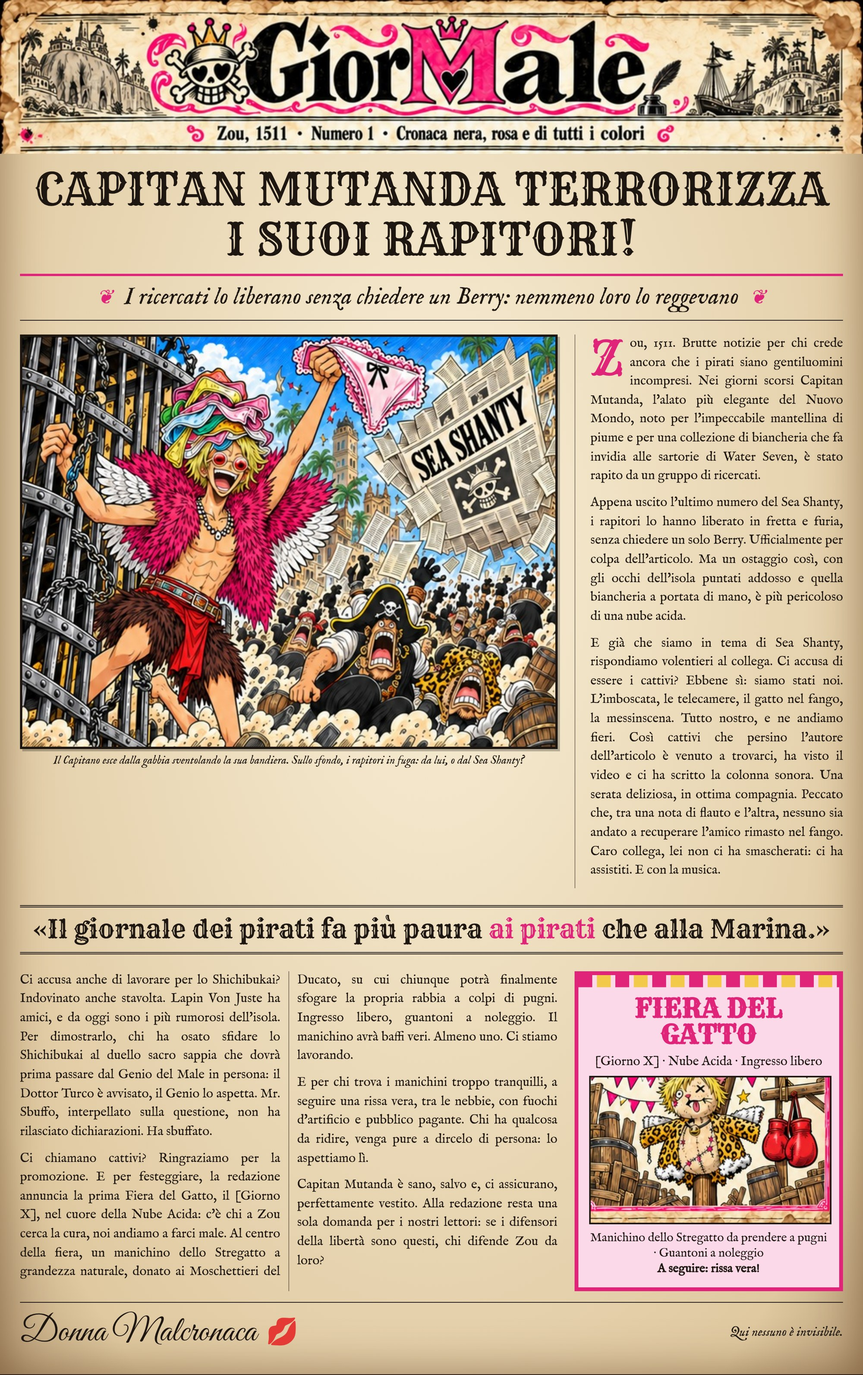
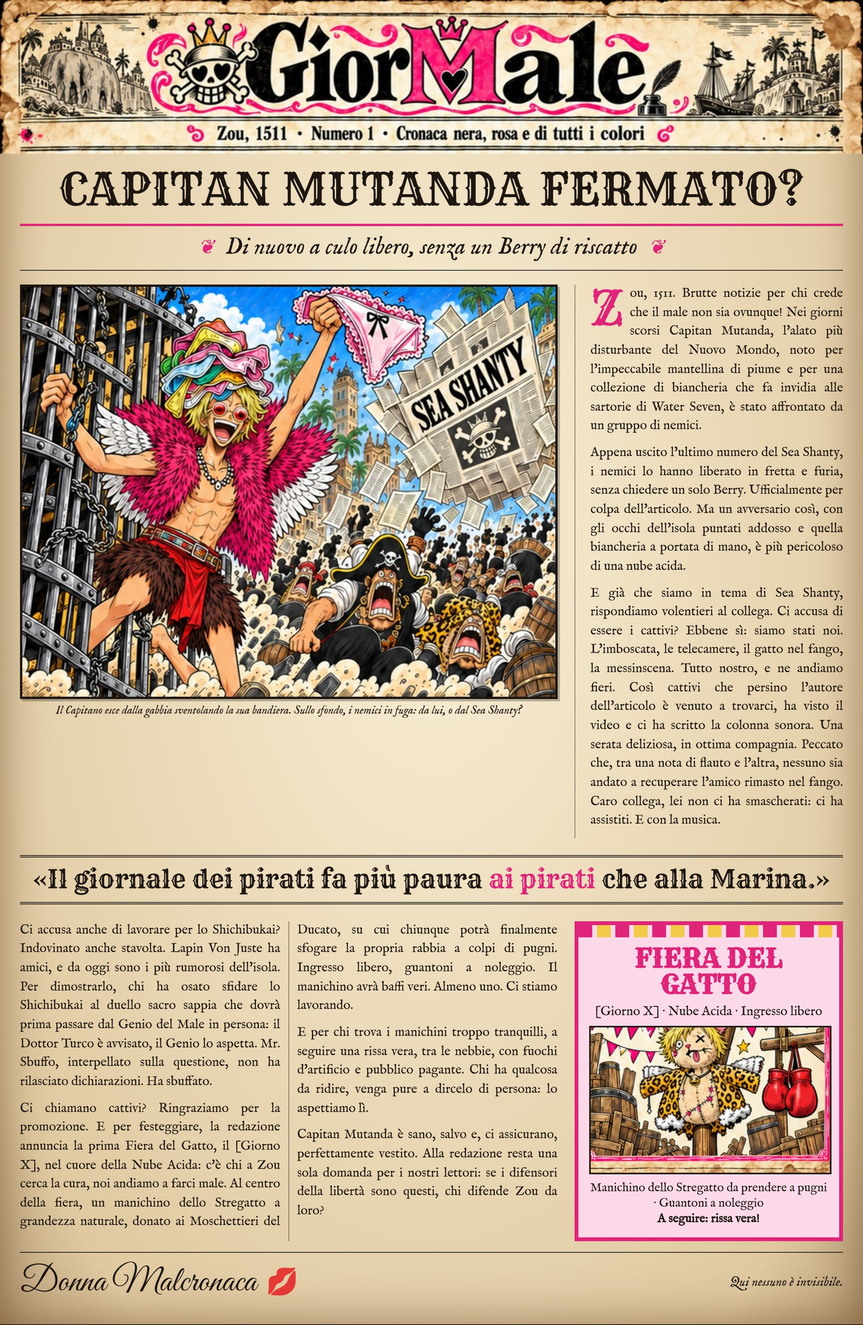
Numero 1: titolo 'Capitan Mutanda fermato?' e ritocchi al testo
Claude-Session: https://claude.ai/code/session_01XZ8LezdMvFBvtvA8Po38dG

diff --git a/numeri/1.html b/numeri/1.html
@@ -1,9 +1,9 @@
 <!doctype html>
 <html lang="it"><head><meta charset="utf-8"><meta name="viewport" content="width=device-width, initial-scale=1">
-<title>GiorMale n.1 — Capitan Mutanda terrorizza i suoi rapitori!</title>
+<title>GiorMale n.1 — Capitan Mutanda fermato?</title>
 <link rel="stylesheet" href="../style.css"><link rel="icon" href="../img/piuma.svg">
 </head><body>
 <header class="testata"><a href="../index.html"><h1>Gior<span class="male">Male</span><img class="piuma" src="../img/piuma.svg" alt=""></h1></a>
 <div class="sottotestata"><span>Zou · Nuovo Mondo</span><span>Cronaca nera, rosa e di tutti i colori</span><span>Diretto da Donna Malcronaca</span></div></header>
 <nav><a href="../index.html">Ultimo numero</a><a href="../archivio.html">Archivio</a></nav>
-<main class="wrap"><figure class="pagina-intera"><a href="../img/n1_prima_pagina.jpg"><img src="../img/n1_prima_pagina.jpg" alt="GiorMale numero 1: Capitan Mutanda terrorizza i suoi rapitori!"></a></figure></main><footer>Il GiorMale non risponde di esplosioni, rapimenti e baffi mancanti. Qui nessuno è invisibile.</footer></body></html>
+<main class="wrap"><figure class="pagina-intera"><a href="../img/n1_prima_pagina.jpg"><img src="../img/n1_prima_pagina.jpg" alt="GiorMale numero 1: Capitan Mutanda fermato?"></a></figure></main><footer>Il GiorMale non risponde di esplosioni, rapimenti e baffi mancanti. Qui nessuno è invisibile.</footer></body></html>

diff --git a/index.html b/index.html
@@ -1,9 +1,9 @@
 <!doctype html>
 <html lang="it"><head><meta charset="utf-8"><meta name="viewport" content="width=device-width, initial-scale=1">
-<title>GiorMale — Capitan Mutanda terrorizza i suoi rapitori!</title>
+<title>GiorMale — Capitan Mutanda fermato?</title>
 <link rel="stylesheet" href="style.css"><link rel="icon" href="img/piuma.svg">
 </head><body>
 <header class="testata"><a href="index.html"><h1>Gior<span class="male">Male</span><img class="piuma" src="img/piuma.svg" alt=""></h1></a>
 <div class="sottotestata"><span>Zou · Nuovo Mondo</span><span>Cronaca nera, rosa e di tutti i colori</span><span>Diretto da Donna Malcronaca</span></div></header>
 <nav><a href="index.html">Ultimo numero</a><a href="archivio.html">Archivio</a></nav>
-<main class="wrap"><figure class="pagina-intera"><a href="img/n1_prima_pagina.jpg"><img src="img/n1_prima_pagina.jpg" alt="GiorMale numero 1: Capitan Mutanda terrorizza i suoi rapitori!"></a></figure></main><footer>Il GiorMale non risponde di esplosioni, rapimenti e baffi mancanti. Qui nessuno è invisibile.</footer></body></html>
+<main class="wrap"><figure class="pagina-intera"><a href="img/n1_prima_pagina.jpg"><img src="img/n1_prima_pagina.jpg" alt="GiorMale numero 1: Capitan Mutanda fermato?"></a></figure></main><footer>Il GiorMale non risponde di esplosioni, rapimenti e baffi mancanti. Qui nessuno è invisibile.</footer></body></html>

diff --git a/archivio.html b/archivio.html
@@ -6,4 +6,4 @@
 <header class="testata"><a href="index.html"><h1>Gior<span class="male">Male</span><img class="piuma" src="img/piuma.svg" alt=""></h1></a>
 <div class="sottotestata"><span>Zou · Nuovo Mondo</span><span>Cronaca nera, rosa e di tutti i colori</span><span>Diretto da Donna Malcronaca</span></div></header>
 <nav><a href="index.html">Ultimo numero</a><a href="archivio.html">Archivio</a></nav>
-<main class="wrap"><h2 class="titolo">Archivio</h2><p class="sommario">Tutti i numeri del GiorMale, dal più recente</p><div class="archivio"><a class="numero" href="numeri/1.html"><img src="img/n1_prima_pagina.jpg" alt=""><h4>N. 1 — Capitan Mutanda terrorizza i suoi rapitori!</h4><span>I ricercati lo liberano senza chiedere un Berry: nemmeno loro lo reggevano</span></a></div></main><footer>Il GiorMale non risponde di esplosioni, rapimenti e baffi mancanti. Qui nessuno è invisibile.</footer></body></html>
+<main class="wrap"><h2 class="titolo">Archivio</h2><p class="sommario">Tutti i numeri del GiorMale, dal più recente</p><div class="archivio"><a class="numero" href="numeri/1.html"><img src="img/n1_prima_pagina.jpg" alt=""><h4>N. 1 — Capitan Mutanda fermato?</h4><span>Di nuovo a culo libero, senza un Berry di riscatto</span></a></div></main><footer>Il GiorMale non risponde di esplosioni, rapimenti e baffi mancanti. Qui nessuno è invisibile.</footer></body></html>

diff --git a/build.py b/build.py
@@ -6,8 +6,8 @@ NUMERI = [
   "slug": "1",
   "data": "Zou, 1511",
   "occhiello": "Cronaca nera",
-  "titolo": "Capitan Mutanda terrorizza i suoi rapitori!",
-  "sommario": "I ricercati lo liberano senza chiedere un Berry: nemmeno loro lo reggevano",
+  "titolo": "Capitan Mutanda fermato?",
+  "sommario": "Di nuovo a culo libero, senza un Berry di riscatto",
   "copertina": "img/n1_prima_pagina.jpg",
   "paragrafi": [
    "Zou, 1511. Brutte notizie per chi crede ancora che i pirati siano gentiluomini incompresi. Nei giorni scorsi Capitan Mutanda, l'alato più elegante del Nuovo Mondo, noto per l'impeccabile mantellina di piume e per una collezione di biancheria che fa invidia alle sartorie di Water Seven, è stato rapito da un gruppo di ricercati. Appena uscito l'ultimo numero del Sea Shanty, i rapitori lo hanno liberato in fretta e furia, senza chiedere un solo Berry.",
